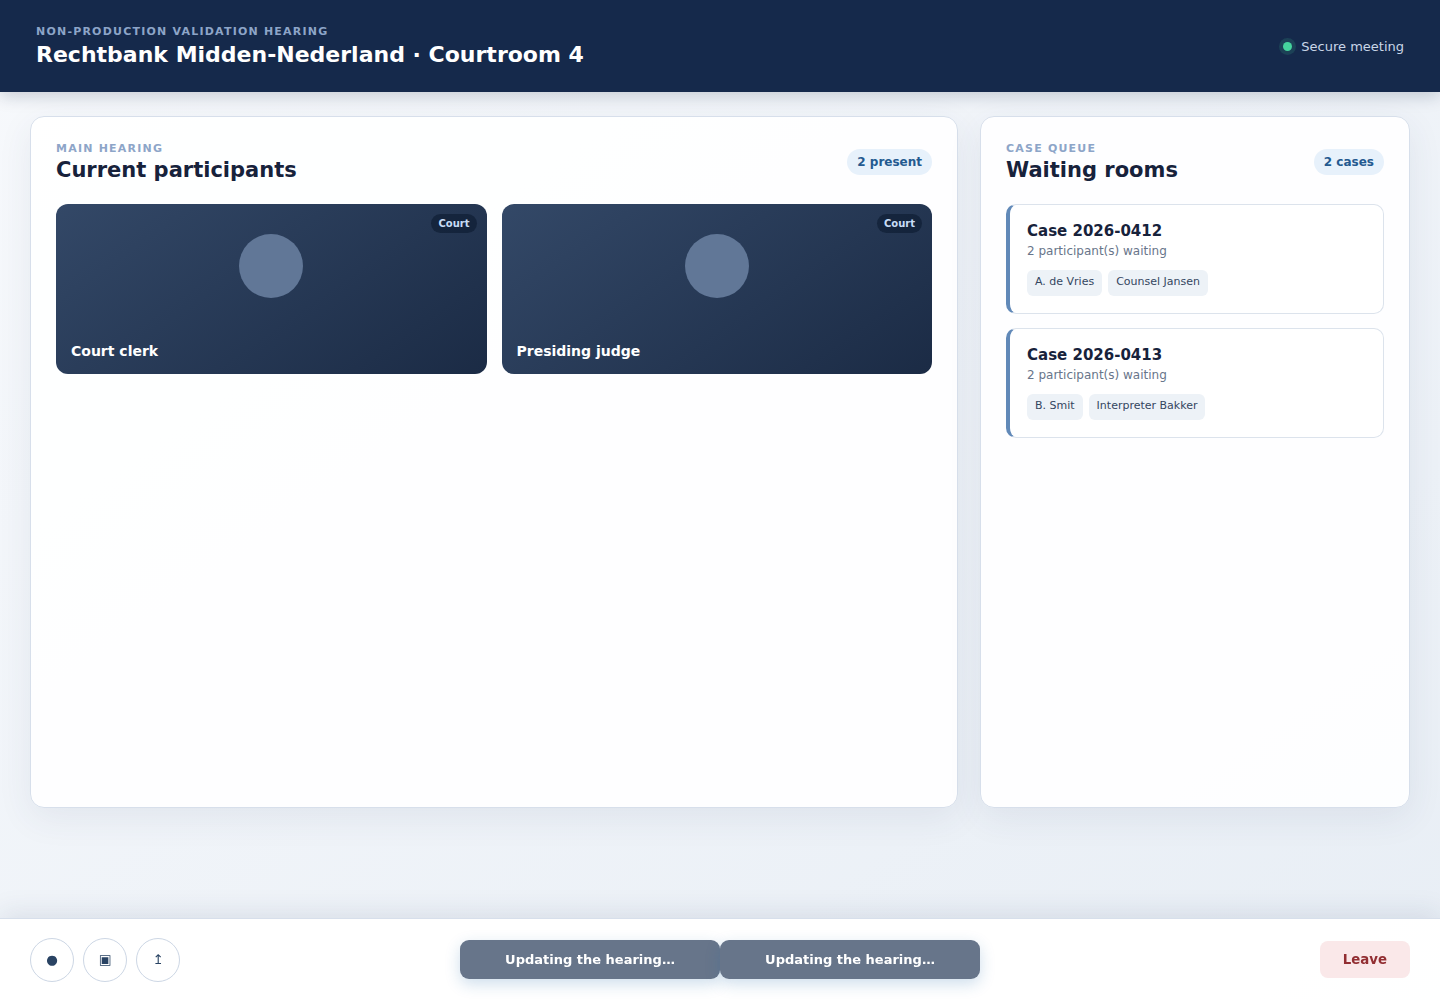
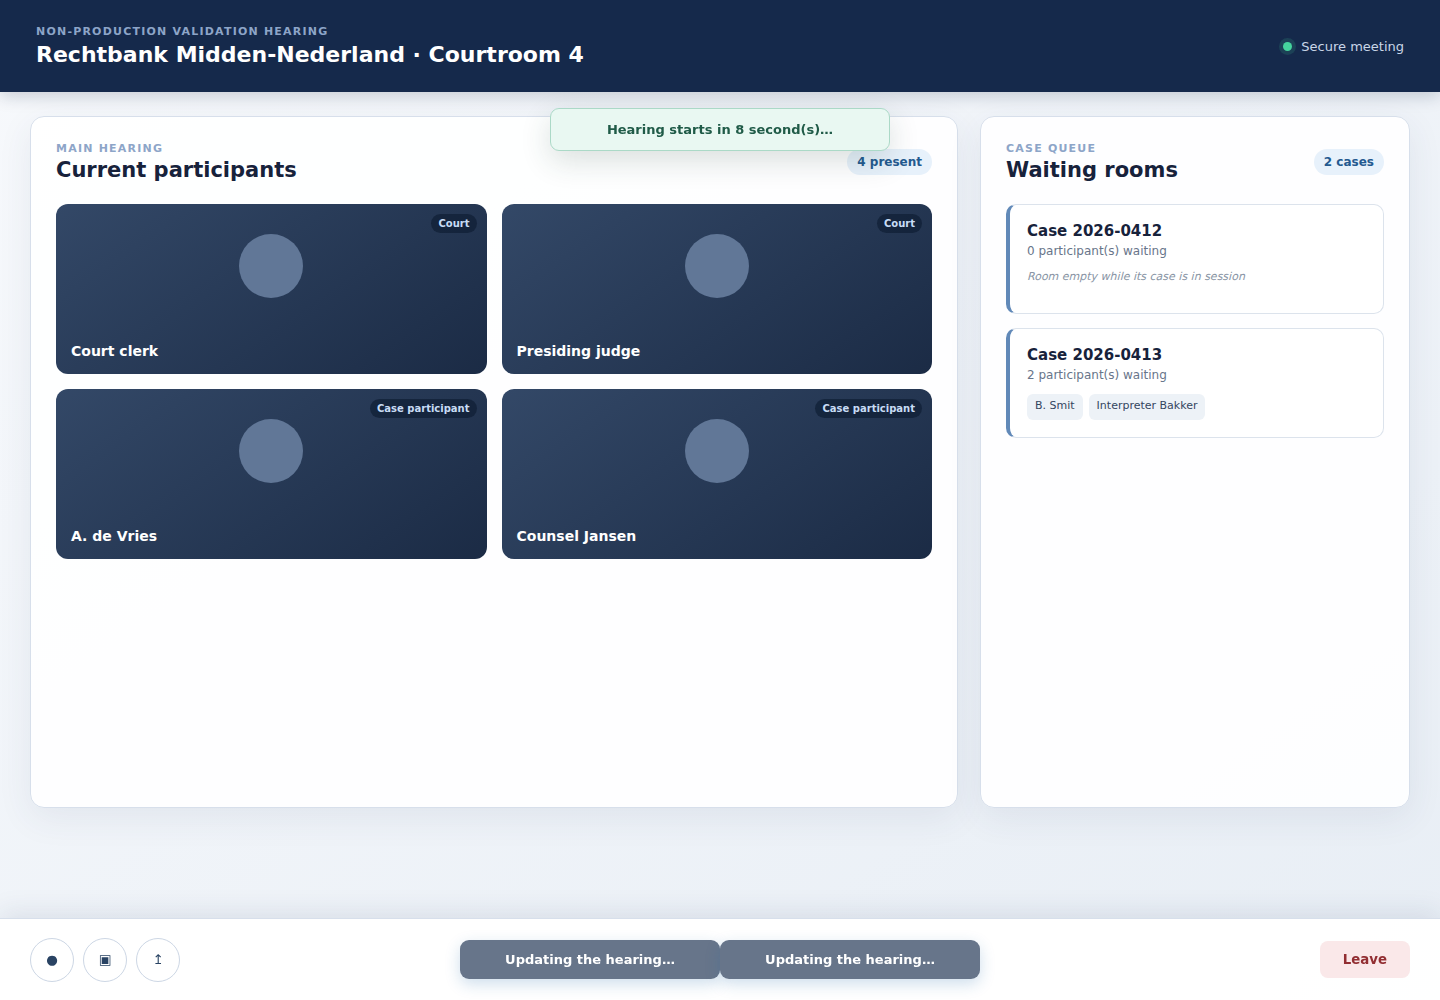
Improve hearing start controls

diff --git a/src/index.ts b/src/index.ts
@@ -12,11 +12,14 @@ import type { MoveParticipantsRequest, RoomSummary } from "./types";
 
 const plugin = await registerPlugin({ id: PLUGIN_ID, version: PLUGIN_VERSION });
 const directory = new RoomDirectory();
+const allWaitingRoomsOption = "__all_waiting_rooms__";
+const countdownSeconds = 10;
 
 let locale: Locale = resolveLocale(navigator.language);
 let startLauncher: Button<"toolbar"> | null = null;
 let returnLauncher: Button<"toolbar"> | null = null;
 let meetingAvailable = false;
+let startHoldActive = false;
 let reconcileChain = Promise.resolve();
 
 const controller = new HearingController({
@@ -89,7 +92,7 @@ async function reconcileLauncher(): Promise<void> {
     return;
   }
 
-  const busy = controller.isBusy();
+  const busy = controller.isBusy() || startHoldActive;
   if (!startLauncher) {
     startLauncher = await plugin.ui.addButton(startLauncherPayload(busy));
     startLauncher.onClick.add(() => void selectAndStartHearing());
@@ -143,7 +146,13 @@ async function selectAndStartHearing(): Promise<void> {
         room: {
           name: translate(locale, "selectRoom"),
           type: "select" as const,
-          options: rooms.map(roomOption),
+          options: [
+            ...rooms.map(roomOption),
+            {
+              id: allWaitingRoomsOption,
+              label: translate(locale, "selectAll"),
+            },
+          ],
           selected: rooms[0]?.id,
         },
       },
@@ -151,27 +160,95 @@ async function selectAndStartHearing(): Promise<void> {
     },
   });
 
+  if (!input?.room) return;
+
+  if (input.room === allWaitingRoomsOption) {
+    const availableRooms = directory
+      .listBreakouts()
+      .filter((room) => room.participantIds.length > 0);
+    if (availableRooms.length === 0) {
+      await showToast("roomUnavailable", true);
+      return;
+    }
+    await startRooms(availableRooms, true);
+    return;
+  }
+
   const selected = directory.getBreakout(input.room);
   if (!selected || selected.participantIds.length === 0) {
     await showToast("roomUnavailable", true);
     return;
   }
 
+  await startRooms([selected], false);
+}
+
+async function startRooms(
+  rooms: readonly RoomSummary[],
+  allRooms: boolean,
+): Promise<void> {
+  startHoldActive = true;
   try {
     scheduleReconcile();
-    const started = await controller.start(selected);
-    await showToast("hearingStarted", false, {
+    const start = allRooms
+      ? controller.startAll(rooms)
+      : controller.start(rooms[0]!);
+    const started = await withCountdown(start);
+    await showToast(allRooms ? "hearingStartedAll" : "hearingStarted", false, {
       count: started.participantCount,
       room: started.roomName,
     });
   } catch (error) {
     await reportActionError(error);
   } finally {
+    startHoldActive = false;
     scheduleReconcile();
   }
 }
 
+async function withCountdown<T>(action: Promise<T>): Promise<T> {
+  let seconds = countdownSeconds;
+  showCountdownToast(seconds);
+  let timer: ReturnType<typeof globalThis.setInterval> | undefined;
+  const countdown = new Promise<void>((resolve) => {
+    timer = globalThis.setInterval(() => {
+      seconds -= 1;
+      if (seconds > 0) {
+        showCountdownToast(seconds);
+      } else {
+        globalThis.clearInterval(timer);
+        resolve();
+      }
+    }, 1000);
+  });
+
+  try {
+    const [result] = await Promise.all([action, countdown]);
+    return result;
+  } finally {
+    globalThis.clearInterval(timer);
+  }
+}
+
+function showCountdownToast(seconds: number): void {
+  void plugin.ui
+    .showToast({
+      message: translate(locale, "hearingCountdown", { seconds }),
+      isInterrupt: true,
+      canDismiss: false,
+      timeout: 1100,
+    })
+    .catch((error) => {
+      console.error("Court hearing countdown could not be shown", error);
+    });
+}
+
 async function pauseHearing(): Promise<void> {
+  if (startHoldActive) {
+    await showToast("actionBusy");
+    return;
+  }
+
   try {
     scheduleReconcile();
     await controller.pause();

diff --git a/src/i18n.ts b/src/i18n.ts
@@ -7,16 +7,20 @@ const translations = {
     toolbarBusy: "Updating the hearing…",
     selectTitle: "Start case hearing",
     selectDescription:
-      "Choose one waiting room. Only the participants currently in that room will be admitted to the main hearing.",
+      "Choose one waiting room or admit all waiting rooms at once. Only the participants currently waiting will be admitted to the main hearing.",
     selectRoom: "Waiting room",
+    selectAll: "Admit all waiting rooms at once",
     selectSubmit: "Start hearing",
     noWaitingRooms: "No waiting room with participants is available.",
     roomUnavailable: "That waiting room is no longer available. Choose again.",
     hearingStarted: "{count} participant(s) admitted from {room}.",
+    hearingStartedAll:
+      "{count} participant(s) admitted from all waiting rooms.",
+    hearingCountdown: "Hearing starts in {seconds} second(s)…",
     hearingPaused: "Participants were returned to their previous rooms.",
     actionBusy: "Please wait for the current hearing action to finish.",
     actionFailed:
-      "The hearing could not be updated. No broader room action was attempted.",
+      "The hearing could not be fully updated. Check the waiting rooms before trying again.",
     roomFallback: "Waiting room {suffix}",
   },
   nl: {
@@ -24,18 +28,21 @@ const translations = {
     toolbarReturn:
       "Pauzeer de zitting en zet deelnemers terug in hun vorige ruimte",
     toolbarBusy: "De zitting wordt bijgewerkt…",
-    selectTitle: "Zaakzitting starten",
+    selectTitle: "Online zitting starten",
     selectDescription:
-      "Kies één wachtruimte. Alleen de deelnemers die nu in die ruimte zitten, worden toegelaten tot de hoofdzitting.",
+      "Kies één wachtruimte of laat alle wachtruimten tegelijk toe. Alleen deelnemers die nu wachten, worden toegelaten tot de hoofdzitting.",
     selectRoom: "Wachtruimte",
+    selectAll: "Alle wachtruimten tegelijk toelaten",
     selectSubmit: "Zitting starten",
     noWaitingRooms: "Er is geen wachtruimte met deelnemers beschikbaar.",
     roomUnavailable: "Die wachtruimte is niet meer beschikbaar. Kies opnieuw.",
     hearingStarted: "{count} deelnemer(s) toegelaten uit {room}.",
+    hearingStartedAll: "{count} deelnemer(s) uit alle wachtruimten toegelaten.",
+    hearingCountdown: "De zitting start over {seconds} seconde(n)…",
     hearingPaused: "Deelnemers zijn teruggezet in hun vorige ruimte.",
     actionBusy: "Wacht tot de huidige zittingsactie is afgerond.",
     actionFailed:
-      "De zitting kon niet worden bijgewerkt. Er is geen bredere ruimteactie uitgevoerd.",
+      "De zitting kon niet volledig worden bijgewerkt. Controleer de wachtruimten voordat u het opnieuw probeert.",
     roomFallback: "Wachtruimte {suffix}",
   },
 } as const;

diff --git a/src/hearing-controller.ts b/src/hearing-controller.ts
@@ -34,21 +34,48 @@ export class HearingController {
   }
 
   async start(room: RoomSummary): Promise<StartedHearing> {
+    return this.startRooms([room]);
+  }
+
+  async startAll(rooms: readonly RoomSummary[]): Promise<StartedHearing> {
+    return this.startRooms(rooms);
+  }
+
+  private async startRooms(
+    rooms: readonly RoomSummary[],
+  ): Promise<StartedHearing> {
     this.assertAvailable();
 
-    const participantIds = uniqueParticipantIds(room.participantIds);
-    if (participantIds.length === 0) throw new EmptyRoomError();
+    const roomMoves = rooms
+      .map((room) => ({
+        room,
+        participantIds: uniqueParticipantIds(room.participantIds),
+      }))
+      .filter(({ participantIds }) => participantIds.length > 0);
+    if (roomMoves.length === 0) throw new EmptyRoomError();
 
     this.busy = true;
     try {
-      await this.options.moveParticipants({
-        fromBreakoutUuid: room.id,
-        toRoomUuid: "main",
-        participants: [...participantIds],
-      });
+      const results = await Promise.allSettled(
+        roomMoves.map(({ room, participantIds }) =>
+          this.options.moveParticipants({
+            fromBreakoutUuid: room.id,
+            toRoomUuid: "main",
+            participants: [...participantIds],
+          }),
+        ),
+      );
+      const failedMove = results.find(
+        (result): result is PromiseRejectedResult =>
+          result.status === "rejected",
+      );
+      if (failedMove) throw failedMove.reason;
       return {
-        roomName: room.name,
-        participantCount: participantIds.length,
+        roomName: roomMoves.map(({ room }) => room.name).join(", "),
+        participantCount: roomMoves.reduce(
+          (count, { participantIds }) => count + participantIds.length,
+          0,
+        ),
       };
     } finally {
       this.busy = false;

diff --git a/src/hearing-controller.test.ts b/src/hearing-controller.test.ts
@@ -108,4 +108,27 @@ describe("HearingController", () => {
     await controller.start(room(["other" as ParticipantID]));
     expect(moveParticipants).toHaveBeenCalledTimes(2);
   });
+
+  it("starts all non-empty rooms together", async () => {
+    const moveParticipants = vi.fn().mockResolvedValue(undefined);
+    const controller = new HearingController({ moveParticipants });
+    const secondRoomId = "room-case-b" as Exclude<RoomID, "main">;
+
+    await expect(
+      controller.startAll([
+        room([participantOne]),
+        { id: roomId, name: "Empty", participantIds: [] },
+        { id: secondRoomId, name: "Case B", participantIds: [participantTwo] },
+      ]),
+    ).resolves.toEqual({
+      roomName: "Case A, Case B",
+      participantCount: 2,
+    });
+    expect(moveParticipants).toHaveBeenCalledTimes(2);
+    expect(moveParticipants).toHaveBeenNthCalledWith(2, {
+      fromBreakoutUuid: secondRoomId,
+      toRoomUuid: "main",
+      participants: [participantTwo],
+    });
+  });
 });

diff --git a/test/browser/mock-pexip.js b/test/browser/mock-pexip.js
@@ -230,9 +230,16 @@ function renderForm(id, payload) {
         </select>
       </label>
       <div class="modal-actions">
+        <button type="button" data-testid="form-close">Close</button>
         <button type="submit">${escapeHtml(payload.form.submitBtnTitle)}</button>
       </div>
     </form>`;
+  backdrop
+    .querySelector('[data-testid="form-close"]')
+    .addEventListener("click", () => {
+      emit("ui:form:input", { modalId: id, input: { room: "" } });
+      backdrop.remove();
+    });
   backdrop.querySelector("form").addEventListener("submit", (event) => {
     event.preventDefault();
     const form = new FormData(event.currentTarget);
@@ -248,7 +255,7 @@ function renderToast(payload) {
   toast.dataset.testid = "toast";
   toast.textContent = payload.message;
   toastRoot.replaceChildren(toast);
-  window.setTimeout(() => toast.remove(), 6500);
+  window.setTimeout(() => toast.remove(), payload.timeout ?? 6500);
 }
 
 function renderRooms() {

diff --git a/src/i18n.test.ts b/src/i18n.test.ts
@@ -14,5 +14,12 @@ describe("i18n", () => {
       translate("en", "hearingStarted", { count: 2, room: "Case A" }),
     ).toBe("2 participant(s) admitted from Case A.");
     expect(translate("nl", "toolbarReturn")).toContain("vorige ruimte");
+    expect(translate("nl", "selectAll")).toBe(
+      "Alle wachtruimten tegelijk toelaten",
+    );
+    expect(translate("nl", "selectTitle")).toBe("Online zitting starten");
+    expect(translate("en", "hearingCountdown", { seconds: 10 })).toBe(
+      "Hearing starts in 10 second(s)…",
+    );
   });
 });

diff --git a/README.md b/README.md
@@ -2,7 +2,7 @@
 
 Production-oriented Pexip toolbar plugin for moving cases between breakout waiting rooms and the main hearing.
 
-The chair chooses one non-empty breakout room. The plugin snapshots only that room's movable participants, admits exactly those UUIDs to `main`, and leaves every other waiting room untouched. Pause asks Pexip to return participants to their server-recorded previous rooms.
+The chair chooses one non-empty breakout room or all waiting rooms at once. The plugin snapshots the selected room rosters, admits exactly those UUIDs to `main`, and leaves unselected waiting rooms untouched. Pause asks Pexip to return participants to their server-recorded previous rooms.
 
 ## Production artifact
 
@@ -27,11 +27,22 @@ The artifact is standalone:
 
 MMM and its environment file are used only by the isolated live-validation script. They are not referenced by production code or included in `dist/`.
 
+## Toolbar control design
+
+The chair toolbar intentionally displays two separate controls at the same time:
+
+- **Start a case hearing** uses the play icon and opens the waiting-room selector.
+- **Pause hearing and return participants to previous rooms** uses the pause icon and immediately requests the native previous-room return.
+
+This is not a single button that changes mode. Keeping both controls visible makes the available action explicit and allows any chair to pause a hearing without relying on local state from the chair who started it. During a Start, its 10-second countdown, or a Pause operation, both controls are temporarily disabled to prevent overlapping moves. They become available again when the operation and any required hold have completed.
+
 ## Safety behavior
 
-- The room selector includes non-empty breakout rooms only.
+- The room selector includes non-empty breakout rooms and a final **Admit all waiting rooms at once** option.
 - Pexip `api` control legs are excluded from participant moves.
 - Start uses `fromBreakoutUuid`, `toRoomUuid: "main"`, and an explicit participant UUID array.
+- Starting shows a non-dismissible 10-second countdown that closes automatically.
+- Admit-all sends one room-scoped move per non-empty waiting room at the same time.
 - Pause uses Pexip's standard `toRoomUuid: "previous"` destination with an empty participant list, allowing Pexip to return all eligible main-room participants to their server-recorded previous rooms.
 - The plugin never calls close-all or empty-all operations.
 - Actions are serialized within each plugin instance; repeated local clicks cannot overlap moves.
@@ -41,11 +52,12 @@ MMM and its environment file are used only by the isolated live-validation scrip
 
 ## Chair workflow
 
-1. Click the play button, labelled **Start a case hearing**.
-2. Choose one waiting room; its current participant count is shown.
-3. Click **Start hearing**. Only that room's current participant snapshot is admitted.
-4. Any chair can click **Pause hearing and return participants to previous rooms**. Pexip performs the return using its own previous-room assignments.
-5. Repeat for the next waiting room.
+1. Confirm that the separate play and pause controls are visible in the chair toolbar.
+2. Click the play button, labelled **Start a case hearing**.
+3. Choose one waiting room or the final **Admit all waiting rooms at once** option; current participant counts are shown.
+4. Click **Start hearing**. Only the selected participant snapshot is admitted.
+5. Any chair can use the separate pause button, labelled **Pause hearing and return participants to previous rooms**. Pexip performs the return using its own previous-room assignments.
+6. Repeat for the next waiting room.
 
 The interface follows the Webapp3 language selection in English or Dutch.
 

diff --git a/docs/evidence/README.md b/docs/evidence/README.md
@@ -2,11 +2,13 @@
 
 All images are 1440×1000 PNG captures. Files 01–09 use the current production bundle in a deterministic Pexip RPC browser simulator. Files 10–13 are historical captures from plugin version 3 in the authorized non-production Pexip Webapp3 environment.
 
+The intended current design uses two simultaneously visible chair-toolbar controls: a play button for Start and a pause button for the native previous-room return. The controls do not replace or toggle each other. Both are disabled while a move is in progress, including the complete 10-second Start hold.
+
 ## Deterministic workflow evidence
 
 | Stage                                                | Evidence                                                                                   |
 | ---------------------------------------------------- | ------------------------------------------------------------------------------------------ |
-| Two independent cases waiting                        | [01-idle-two-cases-waiting.png](01-idle-two-cases-waiting.png)                             |
+| Separate Start and Pause controls; two cases waiting | [01-idle-two-cases-waiting.png](01-idle-two-cases-waiting.png)                             |
 | Select Case A only                                   | [02-room-selection-case-a.png](02-room-selection-case-a.png)                               |
 | Start action locked while moving                     | [03-starting-case-a-guarded.png](03-starting-case-a-guarded.png)                           |
 | Case A active; Case B still waiting                  | [04-case-a-active-success.png](04-case-a-active-success.png)                               |

diff --git a/docs/RELEASE_CHECKLIST.md b/docs/RELEASE_CHECKLIST.md
@@ -23,11 +23,12 @@
 1. Serve `dist/` from the final HTTPS production origin.
 2. Confirm the origin is allowed by Webapp3 and the plugin URL ends at `index.html` or its containing path.
 3. Open a low-impact conference with two disposable waiting rooms.
-4. Confirm only chair users see **Start a case hearing**.
-5. Start one disposable case and verify the second room count is unchanged.
-6. Pause it and verify the same people arrive back in the original room.
-7. Confirm another chair can use the independent Pause control without receiving state from the chair who started the hearing.
-8. Retain the prior plugin URL for immediate configuration rollback.
+4. Confirm only chair users see the two separate toolbar controls: play for **Start a case hearing** and pause for **Pause hearing and return participants to previous rooms**.
+5. Confirm both controls remain visible rather than replacing or toggling each other.
+6. Start one disposable case and verify both controls remain disabled for the complete 10-second Start hold and the second room count is unchanged.
+7. Pause it and verify the same people arrive back in the original room.
+8. Confirm another chair can use the independent Pause control without receiving state from the chair who started the hearing.
+9. Retain the prior plugin URL for immediate configuration rollback.
 
 ## Live-test caveat
 
